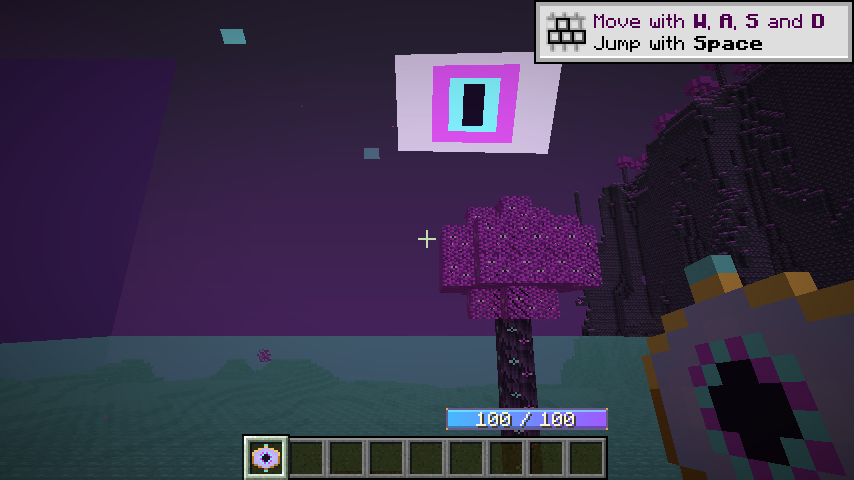
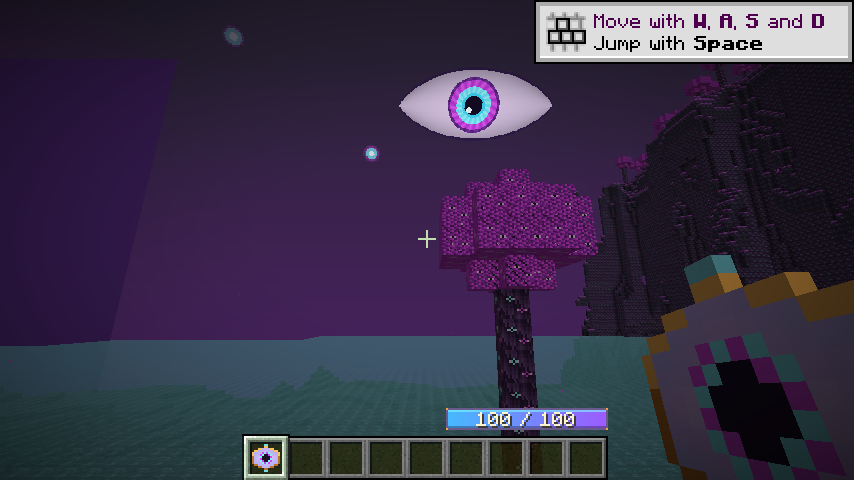
Eye Realm Stage 2: Upgrade Great Sky Eye and star-eyes to painted 256x128 cosmic textures

diff --git a/src/main/java/com/silkpanda/artilian/client/EyeRealmSkyEffects.java b/src/main/java/com/silkpanda/artilian/client/EyeRealmSkyEffects.java
@@ -8,19 +8,26 @@ import com.mojang.blaze3d.vertex.PoseStack;
 import com.mojang.blaze3d.vertex.Tesselator;
 import com.mojang.blaze3d.vertex.VertexFormat;
 import com.mojang.math.Axis;
+import com.silkpanda.artilian.ArtilianMod;
 import net.minecraft.client.Camera;
 import net.minecraft.client.multiplayer.ClientLevel;
 import net.minecraft.client.renderer.DimensionSpecialEffects;
 import net.minecraft.client.renderer.GameRenderer;
+import net.minecraft.resources.ResourceLocation;
 import net.minecraft.util.Mth;
 import net.minecraft.world.phys.Vec3;
 import org.joml.Matrix4f;
 
 /**
- * Custom twilight skybox for Alex's Eye Realm featuring twinkling star-eyes
+ * Custom twilight skybox for Alex's Eye Realm featuring painted twinkling star-eyes
  * and a giant Great Sky Eye overhead that periodically blinks.
  */
 public class EyeRealmSkyEffects extends DimensionSpecialEffects {
+
+    private static final ResourceLocation GREAT_SKY_EYE_TEX =
+            ArtilianMod.id("textures/environment/great_sky_eye.png");
+    private static final ResourceLocation SKY_STAR_EYE_TEX =
+            ArtilianMod.id("textures/environment/sky_star_eye.png");
 
     private static final float[] STAR_ANGLES_X = { -42f, -18f, 24f, 52f, -60f, 12f, 38f, -30f, 65f, -8f };
     private static final float[] STAR_ANGLES_Y = { 28f, -45f, 35f, -22f, 10f, 58f, -55f, 64f, 18f, -72f };
@@ -63,9 +70,10 @@ public class EyeRealmSkyEffects extends DimensionSpecialEffects {
 
         // 0. Twilight skybox dome (deep Artilian slate zenith -> twilight violet horizon)
         drawTwilightSkybox(tesselator, poseStack.last().pose());
-        RenderSystem.enableCull();
 
-        // 1. Twinkling star-eyes around the twilight dome
+        // 1. Twinkling painted star-eyes around the twilight dome
+        RenderSystem.setShader(GameRenderer::getPositionTexColorShader);
+        RenderSystem.setShaderTexture(0, SKY_STAR_EYE_TEX);
         float time = ticks + partialTick;
         for (int i = 0; i < STAR_ANGLES_X.length; i++) {
             float twinkle = 0.45F + 0.55F * Mth.sin(time * 0.08F + i * 1.3F);
@@ -74,54 +82,53 @@ public class EyeRealmSkyEffects extends DimensionSpecialEffects {
             poseStack.mulPose(Axis.ZP.rotationDegrees(STAR_ANGLES_Y[i]));
             Matrix4f mat = poseStack.last().pose();
 
-            float size = 2.2F;
+            float size = 3.2F;
             float yDist = 92.0F;
-            boolean cyan = (i % 2 == 0);
-            int r = cyan ? 125 : 217;
-            int g = cyan ? 249 : 70;
-            int b = cyan ? 255 : 239;
-            int a = (int) (180 * twinkle);
+            int a = (int) (235 * twinkle);
 
-            BufferBuilder buf = tesselator.begin(VertexFormat.Mode.QUADS, DefaultVertexFormat.POSITION_COLOR);
-            buf.addVertex(mat, -size, yDist, -size * 0.65F).setColor(r, g, b, a);
-            buf.addVertex(mat, size, yDist, -size * 0.65F).setColor(r, g, b, a);
-            buf.addVertex(mat, size, yDist, size * 0.65F).setColor(r, g, b, a);
-            buf.addVertex(mat, -size, yDist, size * 0.65F).setColor(r, g, b, a);
+            BufferBuilder buf = tesselator.begin(VertexFormat.Mode.QUADS, DefaultVertexFormat.POSITION_TEX_COLOR);
+            buf.addVertex(mat, -size, yDist, -size).setUv(0.0F, 0.0F).setColor(255, 255, 255, a);
+            buf.addVertex(mat, size, yDist, -size).setUv(1.0F, 0.0F).setColor(255, 255, 255, a);
+            buf.addVertex(mat, size, yDist, size).setUv(1.0F, 1.0F).setColor(255, 255, 255, a);
+            buf.addVertex(mat, -size, yDist, size).setUv(0.0F, 1.0F).setColor(255, 255, 255, a);
             BufferUploader.drawWithShader(buf.buildOrThrow());
             poseStack.popPose();
         }
 
-        // 2. Giant Great Sky Eye high overhead with smooth periodic blink (160-tick cycle)
+        // 2. Giant painted Great Sky Eye high overhead with 4-frame periodic blink (160-tick cycle)
         float cycle = (time % 160.0F) / 160.0F;
-        float openness;
+        int frame;
         if (cycle < 0.80F) {
-            openness = 1.0F;
-        } else if (cycle < 0.88F) {
-            openness = 1.0F - (cycle - 0.80F) / 0.08F;
-        } else if (cycle < 0.92F) {
-            openness = 0.05F;
+            frame = 0; // Wide open
+        } else if (cycle < 0.86F) {
+            frame = 1; // Half-closing
+        } else if (cycle < 0.93F) {
+            frame = 2; // Blink shut
         } else {
-            openness = 0.05F + 0.95F * ((cycle - 0.92F) / 0.08F);
+            frame = 3; // Opening
         }
-        openness = Mth.clamp(openness, 0.05F, 1.0F);
+        float v0 = frame * 0.25F;
+        float v1 = v0 + 0.25F;
 
+        RenderSystem.setShaderTexture(0, GREAT_SKY_EYE_TEX);
         poseStack.pushPose();
         poseStack.mulPose(Axis.XP.rotationDegrees(-52.0F));
         poseStack.mulPose(Axis.ZP.rotationDegrees(-8.0F));
         Matrix4f eyeMat = poseStack.last().pose();
         float dist = 85.0F;
+        float halfW = 26.0F;
+        float halfH = 13.0F;
 
-        // Outer sclera (soft lavender-white)
-        drawQuad(tesselator, eyeMat, dist, 20.0F, 11.5F * openness, 232, 214, 248, 225);
-        // Twilight magenta iris
-        drawQuad(tesselator, eyeMat, dist - 0.2F, 10.5F, 9.0F * openness, 217, 70, 239, 235);
-        // Cyan pupil glow ring
-        drawQuad(tesselator, eyeMat, dist - 0.4F, 6.2F, 6.2F * openness, 125, 249, 255, 245);
-        // Deep void pupil slit
-        drawQuad(tesselator, eyeMat, dist - 0.6F, 2.6F, 4.8F * openness, 24, 12, 38, 255);
+        BufferBuilder eyeBuf = tesselator.begin(VertexFormat.Mode.QUADS, DefaultVertexFormat.POSITION_TEX_COLOR);
+        eyeBuf.addVertex(eyeMat, -halfW, dist, -halfH).setUv(0.0F, v0).setColor(255, 255, 255, 245);
+        eyeBuf.addVertex(eyeMat, halfW, dist, -halfH).setUv(1.0F, v0).setColor(255, 255, 255, 245);
+        eyeBuf.addVertex(eyeMat, halfW, dist, halfH).setUv(1.0F, v1).setColor(255, 255, 255, 245);
+        eyeBuf.addVertex(eyeMat, -halfW, dist, halfH).setUv(0.0F, v1).setColor(255, 255, 255, 245);
+        BufferUploader.drawWithShader(eyeBuf.buildOrThrow());
 
         poseStack.popPose();
 
+        RenderSystem.enableCull();
         RenderSystem.disableBlend();
         RenderSystem.depthMask(true);
         return true;
@@ -165,24 +172,6 @@ public class EyeRealmSkyEffects extends DimensionSpecialEffects {
         buf.addVertex(mat, x2, y2, z2).setColor(43, 35, 56, 255);
         buf.addVertex(mat, x4, y4, z4).setColor(91, 33, 120, 255);
         buf.addVertex(mat, x3, y3, z3).setColor(91, 33, 120, 255);
-        BufferUploader.drawWithShader(buf.buildOrThrow());
-    }
-
-    private static void drawQuad(
-            Tesselator tesselator,
-            Matrix4f mat,
-            float y,
-            float halfW,
-            float halfH,
-            int r,
-            int g,
-            int b,
-            int a) {
-        BufferBuilder buf = tesselator.begin(VertexFormat.Mode.QUADS, DefaultVertexFormat.POSITION_COLOR);
-        buf.addVertex(mat, -halfW, y, -halfH).setColor(r, g, b, a);
-        buf.addVertex(mat, halfW, y, -halfH).setColor(r, g, b, a);
-        buf.addVertex(mat, halfW, y, halfH).setColor(r, g, b, a);
-        buf.addVertex(mat, -halfW, y, halfH).setColor(r, g, b, a);
         BufferUploader.drawWithShader(buf.buildOrThrow());
     }
 }

diff --git a/tools/art/make_eye_realm_art.py b/tools/art/make_eye_realm_art.py
@@ -8,6 +8,7 @@ from PIL import Image
 ROOT = Path(__file__).resolve().parents[2]
 BLOCK_TEX = ROOT / "src/main/resources/assets/artilian/textures/block"
 ITEM_TEX = ROOT / "src/main/resources/assets/artilian/textures/item"
+ENV_TEX = ROOT / "src/main/resources/assets/artilian/textures/environment"
 
 
 def build_gazing_portal() -> None:
@@ -286,6 +287,130 @@ def build_ocular_wood_set() -> None:
     sap.save(BLOCK_TEX / "ocular_sapling.png")
 
 
+def build_great_sky_eye() -> None:
+    """256x512 (4 frames of 256x128) cosmic almond Great Sky Eye with soft aura & blinking lids."""
+    w, fh = 256, 128
+    frames = 4
+    openness_list = [1.0, 0.55, 0.08, 0.55]
+    img = Image.new("RGBA", (w, fh * frames), (0, 0, 0, 0))
+    px = img.load()
+
+    cx, cy = 127.5, 63.5
+    for f in range(frames):
+        oy = f * fh
+        open_amt = openness_list[f]
+        for y in range(fh):
+            ny = (y - cy) / 42.0
+            for x in range(w):
+                nx = (x - cx) / 96.0
+                # Almond shape: |ny| <= lid_curve(nx)
+                if abs(nx) <= 1.0:
+                    max_lid = (1.0 - nx * nx) ** 0.72
+                else:
+                    max_lid = -1.0
+
+                # Soft cosmic halo outside the eye
+                halo_dist = math.hypot(nx * 1.15, ny * 1.1)
+                if halo_dist < 1.35:
+                    halo_alpha = int(max(0.0, (1.35 - halo_dist) / 1.35) ** 2.2 * 130)
+                else:
+                    halo_alpha = 0
+
+                in_almond = max_lid > 0.0 and abs(ny) <= max_lid
+                if not in_almond:
+                    if halo_alpha > 0:
+                        # Twilight magenta -> cyan cosmic nebula aura
+                        mix = max(0.0, min(1.0, 1.0 - halo_dist / 1.35))
+                        r = int(140 + 77 * mix)
+                        g = int(42 + 40 * mix)
+                        b = int(196 + 43 * mix)
+                        px[x, oy + y] = (r, g, b, halo_alpha)
+                    continue
+
+                # Inside almond: check if covered by blinking eyelid
+                lid_open = max_lid * open_amt
+                if abs(ny) > lid_open:
+                    # Curved twilight-indigo eyelid with glowing lash rim
+                    rim_dist = abs(ny) - lid_open
+                    if rim_dist < 0.09:
+                        px[x, oy + y] = (217, 70, 239, 240)
+                    else:
+                        shade = int(46 + 24 * (1.0 - abs(ny) / max(0.01, max_lid)))
+                        px[x, oy + y] = (shade, 26, shade + 34, 235)
+                    continue
+
+                # Visible eye interior (sclera, iris, pupil, specular glint)
+                dx = x - cx
+                dy = y - cy
+                iris_r = math.hypot(dx, dy)
+                angle = math.atan2(dy, dx)
+
+                if iris_r < 14.0:
+                    # Deep cosmic void pupil + crisp starlight glint
+                    glint_d = math.hypot(dx + 5.5, dy + 5.5)
+                    if glint_d < 3.6:
+                        px[x, oy + y] = (240, 253, 255, 255)
+                    elif iris_r > 11.2:
+                        px[x, oy + y] = (64, 215, 245, 255)
+                    else:
+                        px[x, oy + y] = (18, 10, 34, 255)
+                elif iris_r < 32.0:
+                    # Radial striated cyan -> magenta -> violet iris
+                    t = (iris_r - 14.0) / 18.0
+                    ray = 0.5 + 0.5 * math.sin(angle * 18.0 + iris_r * 0.25)
+                    if t < 0.42:
+                        # Bright pupil-glow cyan ring
+                        r = int(105 + 45 * ray)
+                        g = int(230 + 25 * ray)
+                        b = 255
+                    elif t < 0.82:
+                        # Twilight magenta iris body
+                        r = int(190 + 35 * ray)
+                        g = int(52 + 38 * ray)
+                        b = int(218 + 25 * ray)
+                    else:
+                        # Dark arcane iris limbal ring
+                        r = int(86 + 30 * ray)
+                        g = int(32 + 18 * ray)
+                        b = int(128 + 30 * ray)
+                    px[x, oy + y] = (r, g, b, 250)
+                else:
+                    # Shaded lavender-moon sclera with subtle edge vignette
+                    edge = abs(ny) / max(0.01, max_lid)
+                    lum = 1.0 - 0.28 * (edge * edge) - 0.14 * (nx * nx)
+                    r = int(236 * lum)
+                    g = int(216 * lum)
+                    b = int(248 * lum)
+                    px[x, oy + y] = (r, g, b, 242)
+
+                # Soft lash outline along the almond edge
+                if max_lid - abs(ny) < 0.065:
+                    px[x, oy + y] = (43, 25, 66, 245)
+
+    ENV_TEX.mkdir(parents=True, exist_ok=True)
+    img.save(ENV_TEX / "great_sky_eye.png")
+
+
+def build_sky_star_eye() -> None:
+    """16x16 soft glowing cosmic star-eye sprite for the Eye Realm sky."""
+    img = Image.new("RGBA", (16, 16), (0, 0, 0, 0))
+    px = img.load()
+    for y in range(16):
+        for x in range(16):
+            dx = (x - 7.5) / 7.5
+            dy = (y - 7.5) / 7.5
+            d = math.hypot(dx, dy)
+            if d < 0.28:
+                px[x, y] = (240, 253, 255, 255)
+            elif d < 0.55:
+                px[x, y] = (125, 249, 255, 210)
+            elif d < 1.0:
+                a = int(((1.0 - d) / 0.45) ** 2 * 140)
+                px[x, y] = (217, 70, 239, a)
+    ENV_TEX.mkdir(parents=True, exist_ok=True)
+    img.save(ENV_TEX / "sky_star_eye.png")
+
+
 if __name__ == "__main__":
     build_gazing_portal()
     build_gazing_eye()
@@ -293,4 +418,6 @@ if __name__ == "__main__":
     build_eye_turf()
     build_blinking_eye_block()
     build_ocular_wood_set()
+    build_great_sky_eye()
+    build_sky_star_eye()
     print("Generated Phase 4 Eye Realm textures.")
